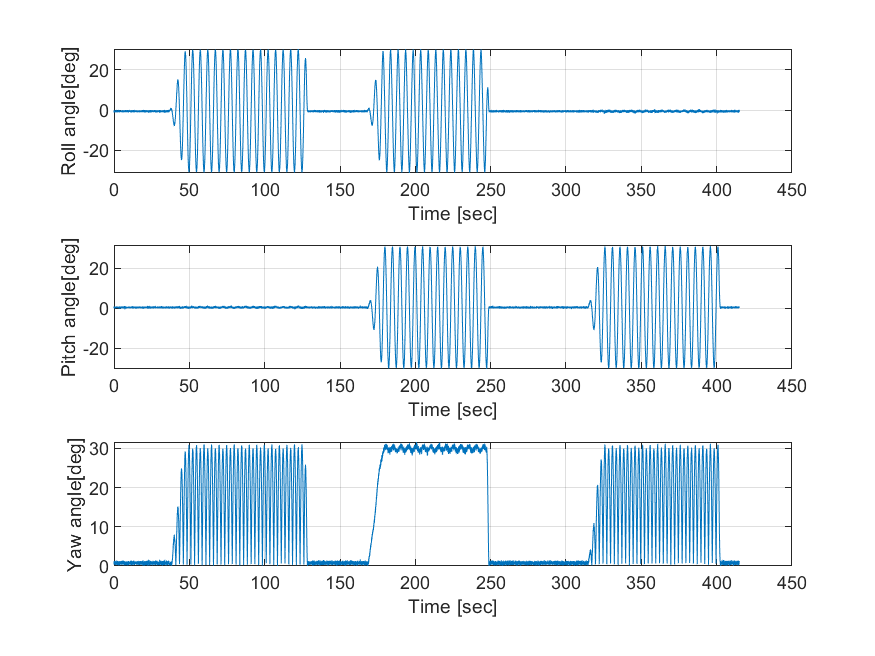
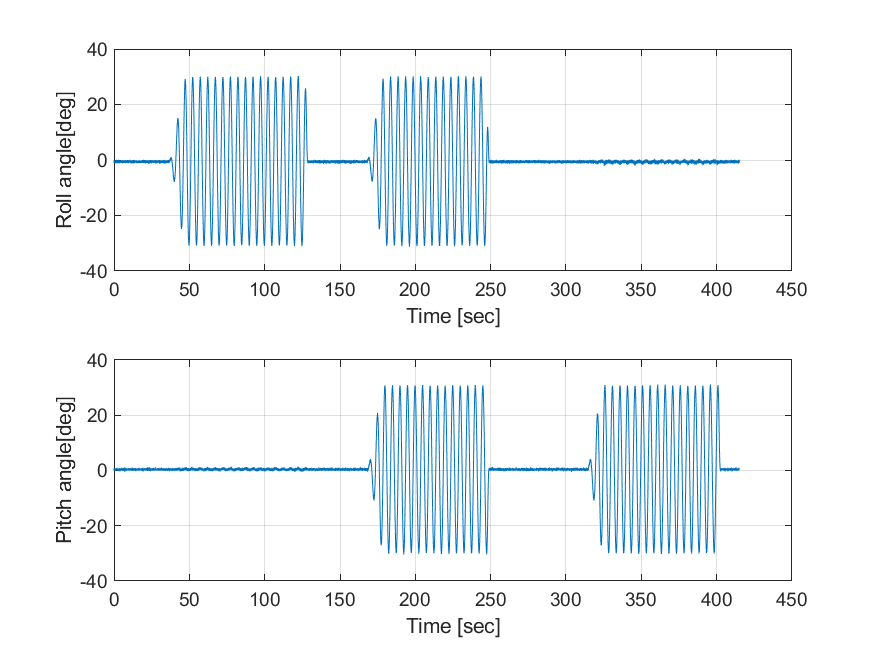
2023-02-06

diff --git a/Matlab/Kalman Filter(Sensor Fusion(Accelerometer, Gyroscope))/TestEulerAccel.m b/Matlab/Kalman Filter(Sensor Fusion(Accelerometer, Gyroscope))/TestEulerAccel.m
@@ -1,13 +1,13 @@
 clear all
 
 Nsamples = 41500;
-EulerSaved = zeros(Nsamples, 3);
+EulerSaved = zeros(Nsamples, 2);
 
 for k = 1:Nsamples
     [ax, ay, az] = GetAccel();
-    [phi, theta, psi] = EulerAccel(ax, ay, az);
+    [phi, theta] = EulerAccel(ax, ay, az);
 
-    EulerSaved(k, :) = [phi, theta, psi];
+    EulerSaved(k, :) = [phi, theta];
 end
 
 radtodeg = EulerSaved(:, :) * (180/pi); % radian to degree
@@ -15,11 +15,11 @@ radtodeg = EulerSaved(:, :) * (180/pi); % radian to degree
 dt = 0.01;
 t = 0:dt:Nsamples*dt - dt;
 
-ylabel_list = ["Roll angle[deg]", "Pitch angle[deg]", "Yaw angle[deg]"];
+ylabel_list = ["Roll angle[deg]", "Pitch angle[deg]"];
 
 figure(1);
-for j=1:3
-    subplot(3, 1, j);
+for j=1:2
+    subplot(2, 1, j);
     plot(t, radtodeg(:, j));
     xlabel('Time [sec]')
     ylabel(ylabel_list(j))

diff --git a/Matlab/Kalman Filter(Sensor Fusion(Accelerometer, Gyroscope))/EulerAccel.m b/Matlab/Kalman Filter(Sensor Fusion(Accelerometer, Gyroscope))/EulerAccel.m
@@ -1,5 +1,4 @@
-function [phi, theta, psi] = EulerAccel(ax, ay, az)
+function [phi, theta] = EulerAccel(ax, ay, az)
 
-phi = atan(ay / sqrt(ax^2  + az^2));
+phi = atan(ay / az);
 theta = atan(ax / sqrt(ay^2 + az^2));
-psi = atan(sqrt(ax^2 + ay^2) / az);
